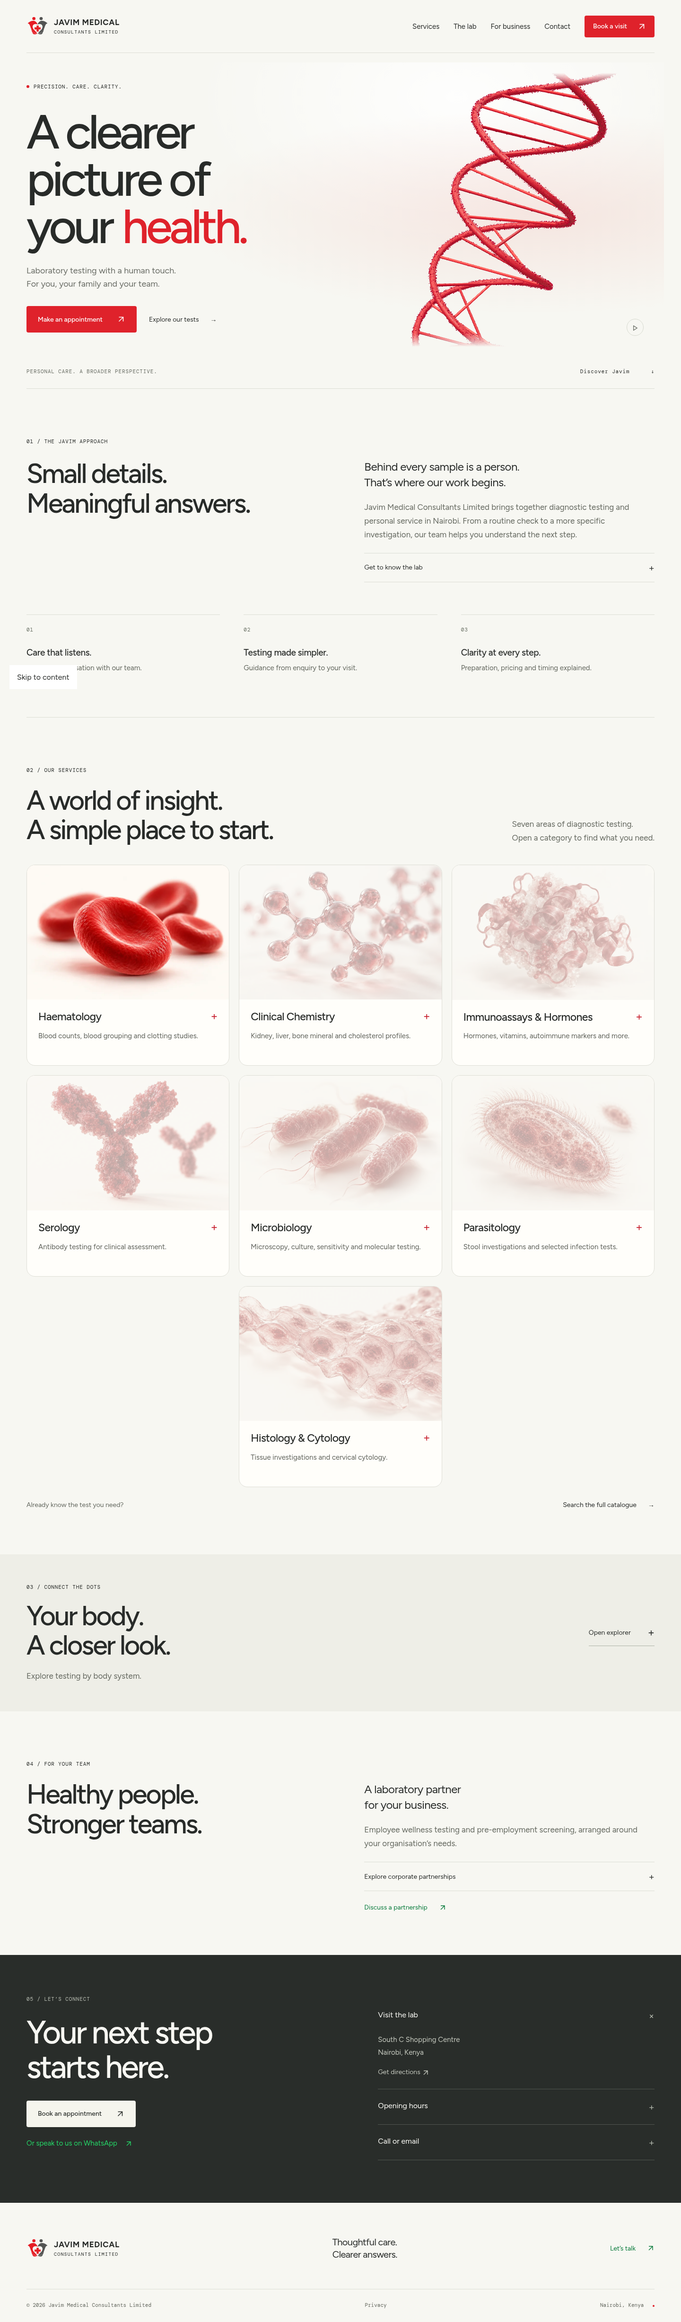
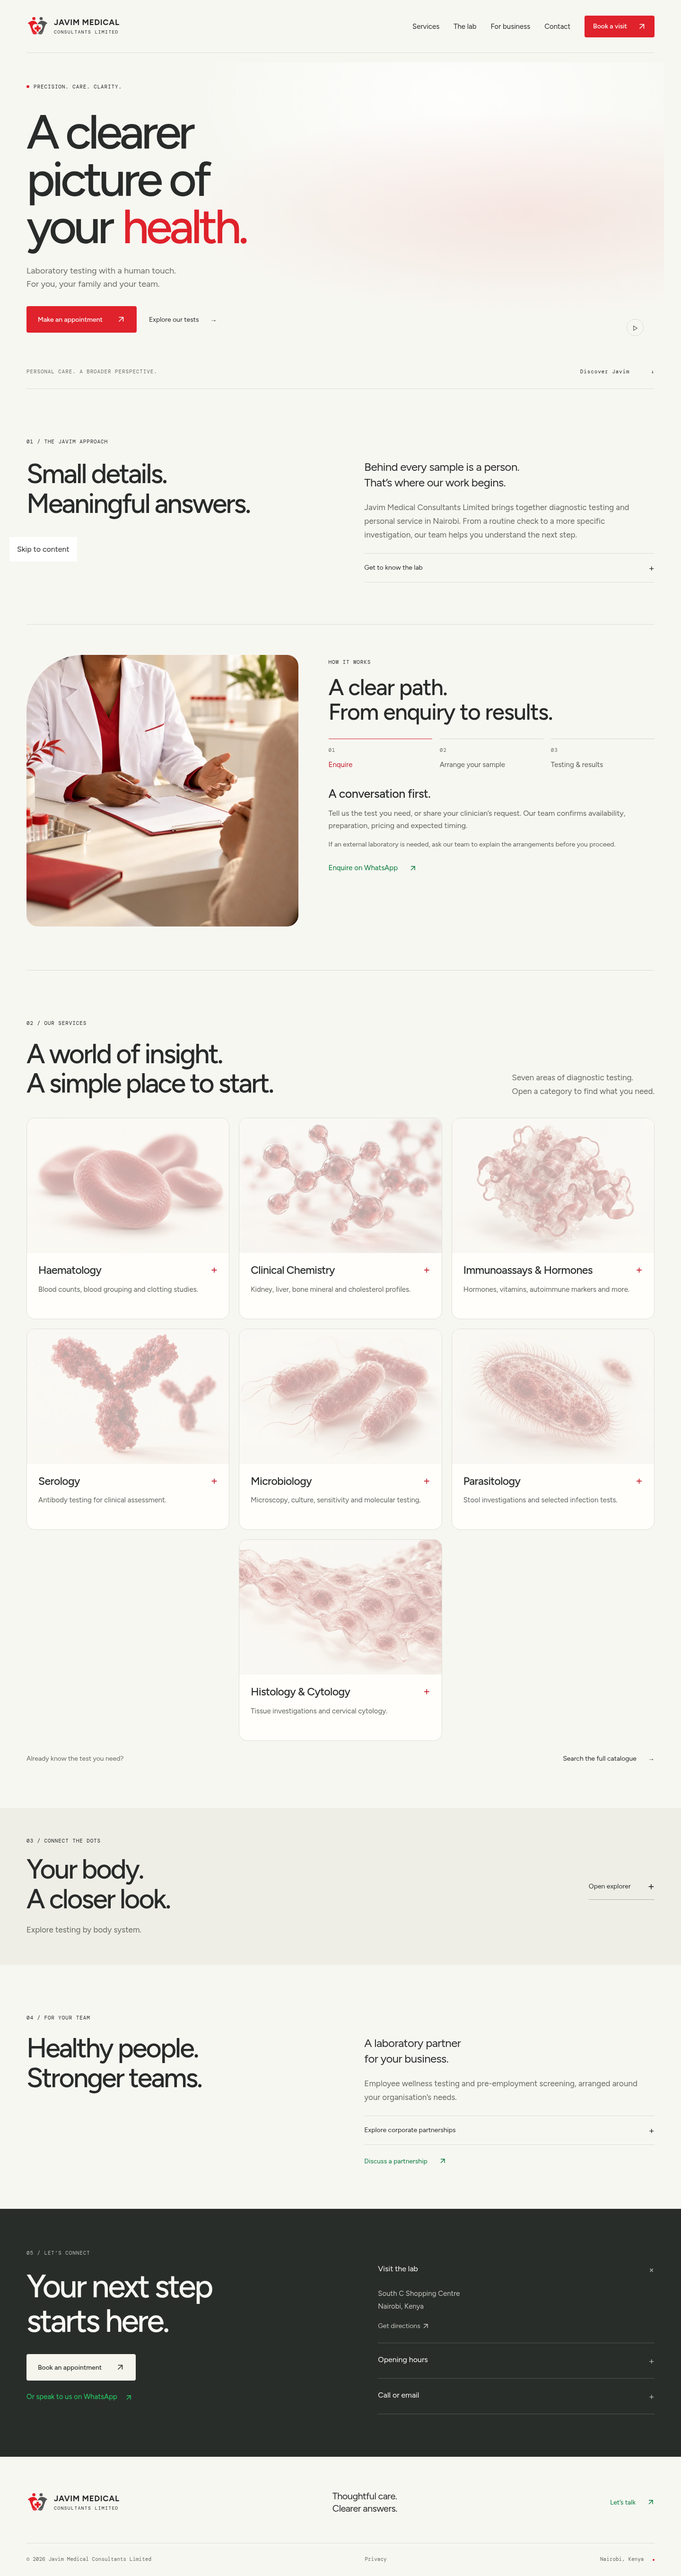
Add interactive enquiry-to-results process with contextual imagery and actions

diff --git a/src/main.js b/src/main.js
@@ -4,6 +4,7 @@ import '@fontsource/figtree/latin-600.css';
 import '@fontsource/figtree/latin-700.css';
 import '@fontsource/dm-mono/latin-400.css';
 import './style.css';
+import {renderProcess, initProcess} from './process.js';
 import {serviceArt} from './service-art.js';
 import {departments, allTests, bookingTypes, whatsapp, systems, matchesTest, safeCalUrl} from './data.js';
 
@@ -21,7 +22,7 @@ const header = `<a class="skip-link" href="#main">Skip to content</a><header cla
 const footer = `<footer class="footer wrap"><div class="footer-top">${brand}<p>Thoughtful care.<br>Clearer answers.</p>${waLink('Let’s talk')}</div><div class="footer-bottom"><span>© ${new Date().getFullYear()} Javim Medical Consultants Limited</span><a href="/privacy">Privacy</a><span>Nairobi, Kenya <span class="red-dot"></span></span></div></footer>`;
 const booking = `<dialog id="booking-dialog" aria-labelledby="booking-title" class="booking-dialog"><div class="dialog-head"><span class="eyebrow">YOUR NEXT STEP</span><button class="close-dialog" aria-label="Close booking">×</button></div><h2 id="booking-title">Make time<br>for your health.</h2><p class="muted">Choose what you need. We’ll take it from here.</p><div class="booking-options">${bookingTypes.map((b,i)=>{const url=safeCalUrl(b.calUrl);return `<a href="${url || whatsapp(b.message)}" target="_blank" rel="noopener noreferrer"><span class="index">0${i+1}</span><div><h3>${b.name}</h3><p>${b.description}</p><span class="alias">${url?'CHOOSE A TIME ON CAL.COM':'<span class="whatsapp-text">ARRANGE VIA WHATSAPP</span>'}</span></div>${arrow}</a>`}).join('')}</div><p class="booking-note">Pricing, preparation and collection arrangements are confirmed by our team. Please avoid sending sensitive medical information in your initial enquiry.</p></dialog>`;
 const hero = `<section class="hero wrap" aria-labelledby="hero-title"><div class="hero-copy"><div class="eyebrow"><span class="red-dot"></span> PRECISION. CARE. CLARITY.</div><h1 id="hero-title">A clearer<br>picture of<br>your <em>health.</em></h1><p>Laboratory testing with a human touch.<br>For you, your family and your team.</p><div class="hero-actions"><button class="button" data-book>Make an appointment ${arrow}</button><a class="text-link" href="/services">Explore our tests <span aria-hidden="true">→</span></a></div></div><div class="hero-visual"><div id="medical-scene" role="group" aria-label="DNA helix transforming into interactive flowing particles"><div class="scene-fallback"><svg xmlns="http://www.w3.org/2000/svg" viewBox="0 0 320 500" fill="none" aria-hidden="true"><g stroke="#df222b" stroke-width="10" stroke-linecap="round"><path d="M110 30c160 70-60 120 100 190s-60 120 0 250M210 30C50 100 270 150 110 220s60 120 0 250"/></g><g stroke="#d78689" stroke-width="3"><path d="m110 30 100 0M150 60h20M135 95h50M100 130h120M130 165h60M150 195h20M110 225h100M140 260h40M150 295h20M100 330h120M130 365h60M150 400h20M110 435h100M110 470h100"/></g></svg></div></div><div class="scene-bottom"><button id="motion-toggle" class="motion-toggle" aria-label="Pause animation" aria-pressed="false"><span aria-hidden="true">Ⅱ</span></button></div></div><div class="hero-foot"><span>PERSONAL CARE. A BROADER PERSPECTIVE.</span><a href="#services">Discover Javim <span aria-hidden="true">↓</span></a></div></section>`;
-const about = `<section id="about" class="about-section wrap section"><div class="eyebrow">01 / THE JAVIM APPROACH</div><div class="about-grid"><h2>Small details.<br>Meaningful answers.</h2><div><p class="large-copy">Behind every sample is a person.<br>That’s where our work begins.</p><p class="muted">Javim Medical Consultants Limited brings together diagnostic testing and personal service in Nairobi. From a routine check to a more specific investigation, our team helps you understand the next step.</p><details class="quiet-details"><summary>Get to know the lab <span aria-hidden="true">+</span></summary><div><p>Our services span haematology, clinical chemistry, immunoassays and hormones, serology, microbiology, parasitology, and histology and cytology.</p><p>Whether you live locally or are visiting Kenya, speak directly with our team about test availability, sample requirements, pricing and turnaround times.</p></div></details></div></div><div class="principles"><div><span class="index">01</span><h3>Care that listens.</h3><p>A direct conversation with our team.</p></div><div><span class="index">02</span><h3>Testing made simpler.</h3><p>Guidance from enquiry to your visit.</p></div><div><span class="index">03</span><h3>Clarity at every step.</h3><p>Preparation, pricing and timing explained.</p></div></div></section>`;
+const about = `<section id="about" class="about-section wrap section"><div class="eyebrow">01 / THE JAVIM APPROACH</div><div class="about-grid"><h2>Small details.<br>Meaningful answers.</h2><div><p class="large-copy">Behind every sample is a person.<br>That’s where our work begins.</p><p class="muted">Javim Medical Consultants Limited brings together diagnostic testing and personal service in Nairobi. From a routine check to a more specific investigation, our team helps you understand the next step.</p><details class="quiet-details"><summary>Get to know the lab <span aria-hidden="true">+</span></summary><div><p>Our services span haematology, clinical chemistry, immunoassays and hormones, serology, microbiology, parasitology, and histology and cytology.</p><p>Whether you live locally or are visiting Kenya, speak directly with our team about test availability, sample requirements, pricing and turnaround times.</p></div></details></div></div>${renderProcess()}</section>`;
 const serviceSection = `<section id="services" class="services-section section wrap"><div class="section-heading"><div><span class="eyebrow">02 / OUR SERVICES</span><h2>A world of insight.<br>A simple place to start.</h2></div><p class="muted">Seven areas of diagnostic testing.<br>Open a category to find what you need.</p></div><div class="service-card-grid">${serviceCards()}</div><div class="section-tail"><span class="muted">Already know the test you need?</span><a class="text-link" href="/services">Search the full catalogue <span aria-hidden="true">→</span></a></div></section>`;
 const anatomySVG = `<svg viewBox="0 0 320 580" role="group" aria-label="Illustrated human body with highlighted organs"><defs><linearGradient id="body-fill" x1="0" y1="0" x2="1" y2="1"><stop stop-color="#f4f4ef"/><stop offset=".5" stop-color="#d7d8d2"/><stop offset="1" stop-color="#f6f6f0"/></linearGradient><radialGradient id="organ"><stop stop-color="#f36860"/><stop offset="1" stop-color="#c42028"/></radialGradient></defs><g fill="url(#body-fill)" stroke="#babdb5" stroke-width="1"><path d="M142 79c-8-8-15-18-14-37 1-20 12-30 32-30s31 10 32 30c1 19-6 29-14 37l-1 18 30 10c15 5 22 18 26 39l16 95 12 60-9 11-12-5-14-64-17-59-5 105 4 56-16 105-8 64-10 45 4 22h-30l-2-20 8-41 4-65 5-94-8-41h-18l-8 41 5 94 4 65 8 41-2 20h-30l4-22-10-45-8-64-16-105 4-56-5-105-17 59-14 64-12 5-9-11 12-60 16-95c4-21 11-34 26-39l30-10Z"/></g><g fill="none" stroke="#adb1a8" stroke-width="1.2" opacity=".45"><path d="M160 101v198M132 121c-20 21-27 56-16 78M188 121c20 21 27 56 16 78M124 153q36 18 72 0M120 165q40 20 80 0M119 179q41 19 82 0M122 193q38 17 76 0M125 208q35 14 70 0M135 298l-14 51M185 298l14 51M119 358l11 102M201 358l-11 102"/></g><g class="anatomy-organ" data-organ="blood" fill="url(#organ)"><path d="M160 145c-8-10-15-7-19 0-9 13-4 33 12 41 13 11 23-1 23-17 1-13-3-22-16-24Z"/><g fill="none" stroke="#d32b31" stroke-width="2.5"><path d="M161 184v104m0-79-29 17-9 77m38-87 29 13 9 74M158 149v-30m0 24-38-16-14 61m56-45 38-16 14 61M161 283l-28 59-1 84m29-143 28 59 1 84"/></g></g><g class="anatomy-organ" data-organ="thyroid" fill="url(#organ)"><path d="M156 111c-17-14-16 14-2 10h12c14 4 15-24-2-10Z"/></g><g class="anatomy-organ" data-organ="liver" fill="url(#organ)"><path d="M126 207c8-14 39-12 59-1-9 6-16 12-23 14-17 5-30 4-36-13Z"/></g><g class="anatomy-organ" data-organ="kidneys" fill="url(#organ)"><path d="M136 231c-15-7-21 21-11 29 7 6 16-3 12-9-9-2 1-14-1-20ZM184 231c15-7 21 21 11 29-7 6-16-3-12-9 9-2-1-14 1-20Z"/></g><g class="anatomy-organ" data-organ="metabolic" fill="none" stroke="#d52a32" stroke-width="4"><path d="M141 273q-15-9-13 5t27 6q24-17 29-3t-22 10q-34-1-20 15t38-3"/></g></svg>`;
 const torsoFallback = anatomySVG.replace('viewBox="0 0 320 580"', 'viewBox="65 82 190 245"').replace(/ data-organ="[^"]*"/g, '').replace('Illustrated human body with highlighted organs', 'Simplified torso illustration');
@@ -31,6 +32,7 @@ const contact = `<section id="contact" class="contact-section"><div class="wrap 
 const servicesPage = `<section class="catalogue-page wrap"><div class="eyebrow"><span class="red-dot"></span> OUR SERVICES</div><h1>Find your<br><em>next answer.</em></h1><p class="large-copy">Explore our laboratory tests.<br>Ask our team about preparation, pricing and timing.</p><div class="search-bar"><label for="test-search">Search tests</label><div><span aria-hidden="true">⌕</span><input id="test-search" type="search" placeholder="Try HbA1c, thyroid or kidney…" autocomplete="off"><button id="clear-search" aria-label="Clear search" hidden>×</button></div></div><div class="filter-list" role="group" aria-label="Filter by department"><button data-filter="all" class="active" aria-pressed="true">All tests</button>${departments.map(d=>`<button data-filter="${d.id}" aria-pressed="false">${d.name}</button>`).join('')}</div><p id="results-count" class="eyebrow" role="status" aria-live="polite">${allTests.length} TESTS / 7 SERVICE GROUPS</p><div id="catalogue-results">${departmentRows(true)}</div><div class="catalogue-help"><h2>Not sure where to start?</h2><p class="muted">Share the test name or your clinician’s request. Our team can confirm availability, pricing and preparation.</p>${waLink('Ask the team')}</div></section>`;
 const privacy = `<article class="privacy-page wrap"><span class="eyebrow">YOUR PRIVACY</span><h1>Care includes<br><em>your privacy.</em></h1><p>This website provides information about Javim Medical Consultants Limited and links to our team and appointment services.</p><h2>Website use</h2><p>We do not provide a medical-record upload form or use analytics or advertising trackers on this website. Our hosting provider may process technical request information such as IP addresses for delivery and security.</p><h2>Contact and booking</h2><p><span class="whatsapp-text">WhatsApp</span>, Cal.com (when enabled) and Google Maps are external services with their own privacy policies. They receive information when you follow a link to use them. Please avoid sharing sensitive health details in an initial booking enquiry.</p><h2>Medical information</h2><p>Ask our team how patient information, specimens and laboratory results are handled before submitting medical information. This website notice does not replace the laboratory’s patient-data policy.</p><h2>Questions</h2><p>Contact <a href="mailto:javimops@outlook.com">javimops@outlook.com</a> for privacy enquiries.</p></article>`;
 document.querySelector('#app').innerHTML = (header + `<main id="main">${isServices?servicesPage:isPrivacy?privacy:hero+about+serviceSection+explorer+corporate+contact}</main>` + footer + booking).replaceAll('↗', arrowIcon);
+initProcess();
 const dialog = document.querySelector('#booking-dialog');
 document.querySelectorAll('[data-book]').forEach(b=>b.addEventListener('click',()=>dialog.showModal()));
 document.querySelector('.close-dialog').addEventListener('click',()=>dialog.close());

diff --git a/src/process.js b/src/process.js
@@ -1,0 +1,25 @@
+import {whatsapp} from './data.js';
+
+const steps = [
+  {id:'enquire',label:'Enquire',title:'A conversation first.',copy:'Tell us the test you need, or share your clinician’s request. Our team confirms availability, preparation, pricing and expected timing.',note:'If an external laboratory is needed, ask our team to explain the arrangements before you proceed.',cta:'Enquire on WhatsApp',message:'Hello Javim Medical, I would like to enquire about a test. Please confirm availability, preparation, pricing, expected timing and whether an external laboratory is needed.'},
+  {id:'sample',label:'Arrange your sample',title:'Your sample. Your next step.',copy:'Arrange a lab visit, a prepared specimen drop-off, or sample collection in Nairobi and surrounding areas. Our team confirms what is suitable for your test.',note:'Check preparation and collection instructions before taking or bringing a sample.',cta:'Arrange an appointment',booking:true},
+  {id:'results',label:'Testing & results',title:'Know what comes next.',copy:'Your sample follows the testing arrangements confirmed with our team. Ask when to expect your results and how they will be shared.',note:'Timing depends on the test and whether an external laboratory is involved. Discuss the results with your clinician.',cta:'Ask about results on WhatsApp',message:'Hello Javim Medical, I would like guidance on expected results timing and how results are shared. Please let me know the appropriate way to follow up.'},
+];
+const arrow='<span aria-hidden="true">↗</span>';
+export function renderProcess(){
+return `<section class="process-section" aria-labelledby="process-heading"><div class="process-image-stack">${steps.map((s,i)=>`<img src="/assets/process/${s.id}.webp" srcset="/assets/process/${s.id}-small.webp 480w, /assets/process/${s.id}.webp 960w" sizes="(max-width:760px) 90vw, 42vw" width="960" height="960" alt="" loading="lazy" decoding="async" data-process-image="${s.id}" ${i?'hidden':''}>`).join('')}</div><div class="process-copy"><span class="eyebrow">HOW IT WORKS</span><h2 id="process-heading">A clear path.<br>From enquiry to results.</h2><div class="process-tabs" role="tablist" aria-label="Your testing journey">${steps.map((s,i)=>`<button type="button" id="process-tab-${s.id}" role="tab" aria-selected="${i===0}" aria-controls="process-panel-${s.id}" tabindex="${i===0?0:-1}" data-process-step="${s.id}"><span class="index">0${i+1}</span><span>${s.label}</span></button>`).join('')}</div><div class="process-panels">${steps.map((s,i)=>`<div id="process-panel-${s.id}" role="tabpanel" aria-labelledby="process-tab-${s.id}" tabindex="0" ${i?'hidden':''}><h3>${s.title}</h3><p>${s.copy}</p><p class="process-note">${s.note}</p>${s.booking?`<button class="button process-cta" data-book>${s.cta} ${arrow}</button>`:`<a class="text-link whatsapp-link process-cta" href="${whatsapp(s.message)}" target="_blank" rel="noopener noreferrer">${s.cta} ${arrow}</a>`}</div>`).join('')}</div></div></section>`;
+}
+export function initProcess(){
+ const tabs=[...document.querySelectorAll('[data-process-step]')];
+ function select(tab){
+  for(const t of tabs){const active=t===tab;t.setAttribute('aria-selected',String(active));t.tabIndex=active?0:-1;document.getElementById(t.getAttribute('aria-controls')).hidden=!active;document.querySelector(`[data-process-image="${t.dataset.processStep}"]`).hidden=!active;}
+ }
+ tabs.forEach((tab,index)=>{
+  tab.addEventListener('click',()=>select(tab));
+  tab.addEventListener('keydown',event=>{
+   const move={ArrowRight:(index+1)%tabs.length,ArrowLeft:(index+tabs.length-1)%tabs.length,Home:0,End:tabs.length-1};
+   if(!(event.key in move))return;
+   event.preventDefault();const next=tabs[move[event.key]];select(next);next.focus();
+  });
+ });
+}

diff --git a/src/style.css b/src/style.css
@@ -113,3 +113,24 @@
 @media(hover:none){.service-art{opacity:1;filter:none;transform:none}.service-card[open] .service-art{transform:none}}
 @media(max-width:600px){.service-card-visual{height:auto}.service-art{height:100%}}
 @media(prefers-reduced-motion:reduce){.service-art{transition:none;transform:none!important}}
+
+/* The testing journey: deliberate, user-controlled steps. */
+.process-section{display:grid;grid-template-columns:minmax(0,1fr) minmax(0,1.2fr);gap:64px;align-items:center;margin-top:88px;padding-top:64px;border-top:1px solid var(--line,#dcded5)}
+.process-image-stack{aspect-ratio:1;overflow:hidden;border-radius:120px 24px 24px 24px;background:#f5f1eb;align-self:center}
+.process-image-stack img{display:block;width:100%;height:100%;object-fit:cover;animation:process-reveal .45s ease-out}
+.process-image-stack img[hidden],.process-panels [hidden]{display:none}
+.process-copy h2{font-size:clamp(32px,3.4vw,48px);line-height:1.08;margin:18px 0 30px;letter-spacing:-1.5px}
+.process-tabs{display:grid;grid-template-columns:repeat(3,minmax(0,1fr));gap:16px}
+.process-tabs button{text-align:left;background:none;border:0;border-top:1px solid #d2d5ca;padding:14px 0;cursor:pointer;color:#5b6057;font-family:inherit;font-size:15px;line-height:1.45;display:flex;flex-direction:column;gap:12px}
+.process-tabs button[aria-selected="true"]{border-color:#d32330;color:#c31e2c}
+.process-tabs .index{font-size:11px}
+.process-tabs button:focus-visible,.process-panels [role="tabpanel"]:focus-visible{outline:2px solid #c31e2c;outline-offset:5px}
+.process-panels{margin-top:20px;min-height:290px}
+.process-panels h3{font-size:25px;font-weight:500;letter-spacing:-.5px;margin:0 0 14px}
+.process-panels p{font-size:16px;line-height:1.65;color:#5d6357;margin:0 0 15px}
+.process-panels .process-note{font-size:14px;line-height:1.6}
+.process-cta{margin-top:12px;font-size:15px;line-height:1.5}
+@keyframes process-reveal{from{opacity:.2;transform:scale(1.02)}to{opacity:1;transform:scale(1)}}
+@media(max-width:1000px){.process-section{gap:32px}.process-image-stack{border-top-left-radius:80px}.process-panels{min-height:340px}}
+@media(max-width:760px){.process-section{grid-template-columns:1fr;margin-top:40px;padding-top:36px;gap:28px}.process-image-stack{width:100%;max-width:520px;justify-self:center}.process-copy h2{font-size:36px}.process-tabs{gap:12px}.process-tabs button{font-size:14px}.process-panels{min-height:320px}}
+@media(prefers-reduced-motion:reduce){.process-image-stack img{animation:none}}

diff --git a/tests/browser/process.spec.js b/tests/browser/process.spec.js
@@ -1,0 +1,19 @@
+import {test,expect} from '@playwright/test';
+test('process steps change images, disclose referral guidance and provide working actions',async({page})=>{
+ await page.emulateMedia({reducedMotion:'reduce'});await page.goto('/');
+ const process=page.locator('.process-section');
+ await expect(process.getByRole('tabpanel')).toHaveCount(1);
+ await expect(process.getByRole('tabpanel')).toContainText('external laboratory');
+ await expect(process.locator('img:visible')).toHaveAttribute('data-process-image','enquire');
+ await expect(process.getByRole('link')).toHaveAttribute('href',/^https:\/\/wa.me\/254114793610\?/);
+ await process.getByRole('tab',{name:'02 Arrange your sample'}).click();
+ await expect(process.locator('img:visible')).toHaveAttribute('data-process-image','sample');
+ await process.getByRole('button',{name:'Arrange an appointment'}).click();await expect(page.locator('#booking-dialog')).toBeVisible();await page.keyboard.press('Escape');
+ await process.getByRole('tab',{name:'02 Arrange your sample'}).focus();await page.keyboard.press('ArrowRight');
+ await expect(process.getByRole('tab',{name:'03 Testing & results'})).toBeFocused();
+ await expect(process.locator('img:visible')).toHaveAttribute('data-process-image','results');
+ await expect(process.getByRole('tabpanel')).toContainText('Discuss the results with your clinician');
+ await expect(process.getByRole('link')).toHaveAttribute('href',/expected%20results%20timing/);
+ for(const tab of await process.getByRole('tab').all()){await tab.click();const img=process.locator('img:visible');await expect(img).toHaveJSProperty('complete',true);expect(await img.evaluate(i=>i.naturalWidth)).toBeGreaterThan(0);}
+ await page.setViewportSize({width:390,height:844});await expect(process.getByRole('tab')).toHaveCount(3);expect(await page.evaluate(()=>document.documentElement.scrollWidth<=innerWidth)).toBe(true);
+});

diff --git a/README.md b/README.md
@@ -4,6 +4,20 @@ A minimalist, responsive laboratory website built with Vite, vanilla JavaScript 
 
 ## Current design
 
+### Interactive testing journey
+
+The former three principles are now a user-controlled process: Enquire → Arrange your sample → Testing & results. Selecting a step changes the illustration, explanation and action. Enquiry and results actions open WhatsApp; sample arrangements open the existing booking choices. Arrow keys, Home and End navigate the tabs. External-laboratory arrangements are framed as information to confirm during enquiry, with no promise that every test is performed on-site.
+
+These three images are AI-generated conceptual scenes, not photographs of Javim staff, equipment or premises. Responsive WebP copies are stored locally in `public/assets/process`.
+
+![Enquiry step](docs/screenshots/process-enquire.png)
+
+![Sample arrangements step](docs/screenshots/process-sample.png)
+
+![Testing and results step](docs/screenshots/process-results.png)
+
+<img src="docs/screenshots/process-mobile.png" alt="Mobile testing journey" width="390" />
+
 ### Service discovery cards
 
 Seven expandable categories in a 3–3–1 desktop layout. Opening a category automatically closes the previous one. Hover or keyboard focus reveals coordinated red scientific close-ups; tap or click reveals up to three test explanations. Category links open the full catalogue already filtered, retaining all 42 tests. Mobile cards stack and keep the artwork visible; reduced-motion preferences disable transitions. The seven images are AI-generated conceptual illustrations, not diagnostic micrographs. Responsive, lazy-loaded WebP assets live in `public/assets/services`; the complete two-size set is approximately 500 KB.

diff --git a/public/assets/process/README.md b/public/assets/process/README.md
@@ -1,0 +1,5 @@
+# Process illustrations
+
+AI-generated editorial illustrations created for this website in October 2026. These are conceptual scenes, not photographs of Javim staff, clients, equipment or premises. They illustrate enquiry, sample arrangements, and testing/results without asserting specific laboratory capabilities or procedures.
+
+Art direction: warm ivory setting, red accents, realistic materials, natural studio light. Responsive WebP sizes: 960 and 480 pixels square. Original generation files are retained separately from the website repository.
